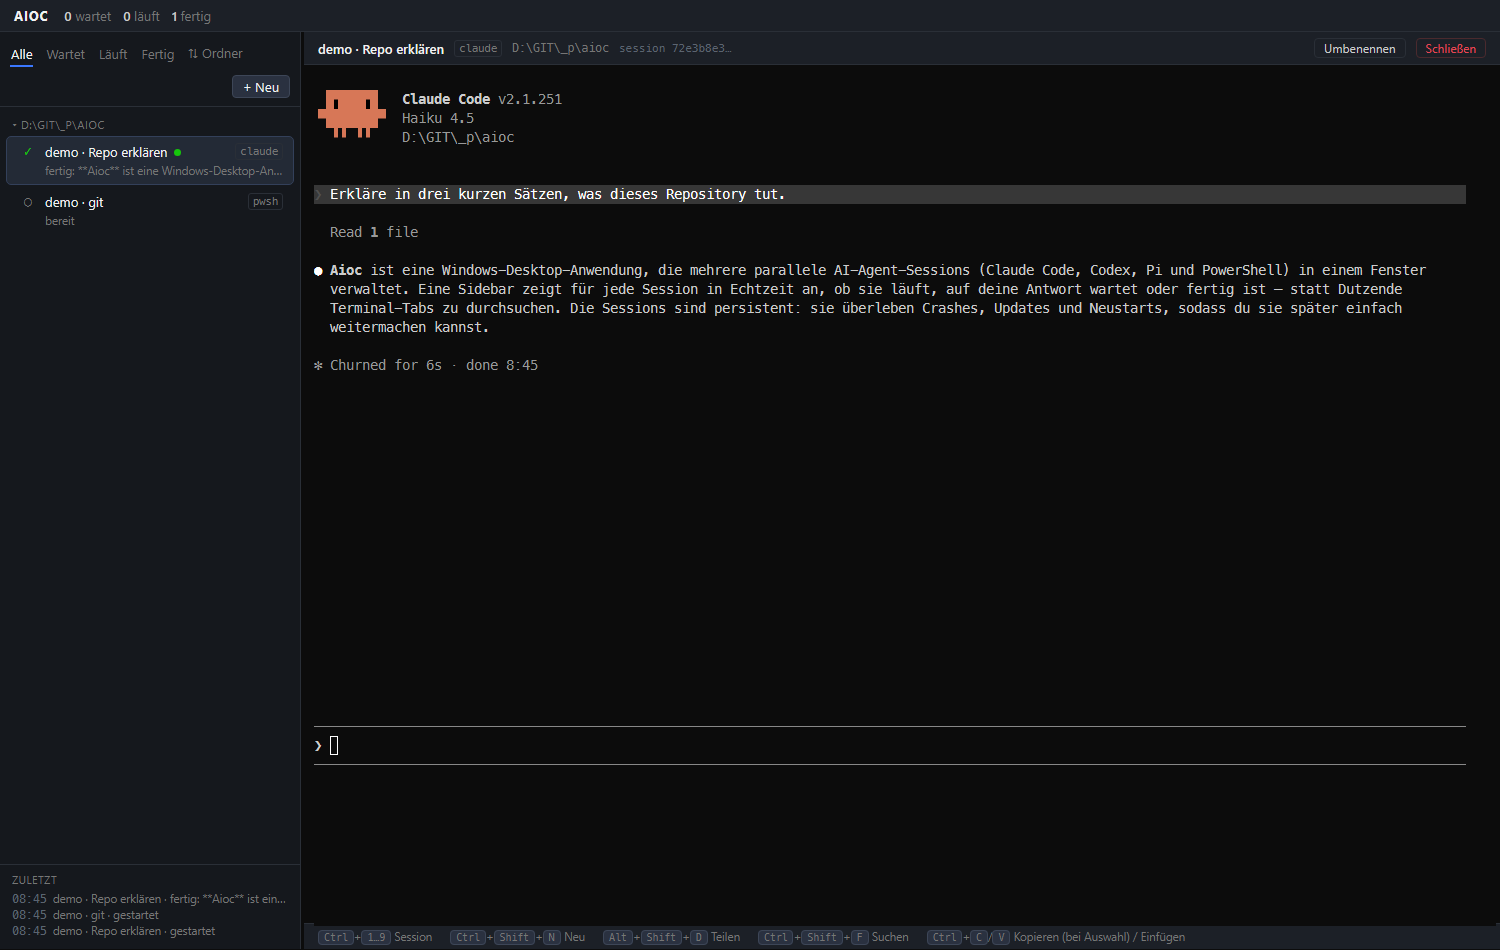
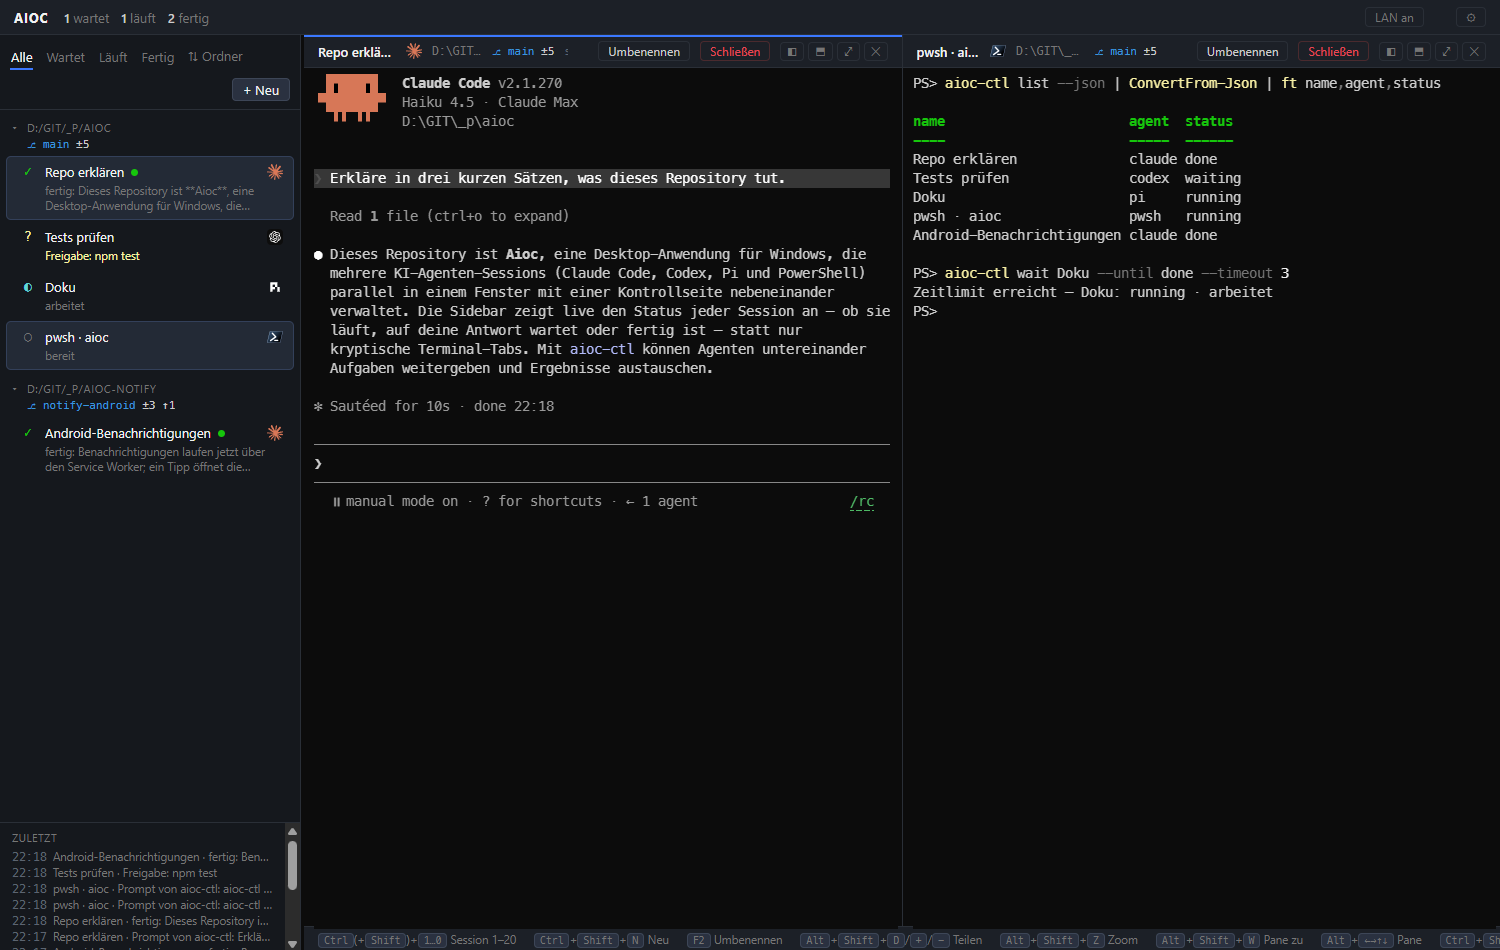
Doku auf den aktuellen Stand: Agenten-Anleitung fuer aioc-ctl, README, Screenshot
AIOC-CTL.md neben der README erklaert Agenten, wie sie andere Sessions lesen,
anschreiben und auf sie warten: Befehle, Statuswerte, Warte-Logik, Muster und
Fallstricke (Git-Bash-Slashes, Quoting, eigenes Tool-Zeitlimit, pwsh/Pi ohne
--answer). aioc-ctl --help nennt den Pfad.

README: Sortierung nach Typ und Drag-Reihenfolge in der Uebersicht, Handy mit
Tailscale-Zertifikat, vollstaendige Zustandsdateien, ui/agents/ im Aufbau. Chrome
auf Android zeigt noch keine Benachrichtigungen - steht jetzt so drin.

QR-Dialog und LAN-Tooltips unterscheiden vertrauenswuerdiges und selbst erzeugtes
Zertifikat. Neuer Screenshot mit Gruppen, Branch-Stand, Symbolen und zwei Panes.

diff --git a/ui/app.js b/ui/app.js
@@ -622,7 +622,9 @@
         const copy = document.createElement('button');
         copy.className = 'btn';
         copy.textContent = 'Link kopieren';
-        copy.title = 'Verbindungslink (mit Token und Zertifikats-Fingerprint) in die Zwischenablage';
+        copy.title = lan.trusted
+          ? 'Verbindungslink (mit Token) in die Zwischenablage'
+          : 'Verbindungslink (mit Token und Zertifikats-Fingerprint) in die Zwischenablage';
         copy.addEventListener('click', () => {
           navigator.clipboard?.writeText(link).then(() => { copy.textContent = 'Kopiert ✓'; setTimeout(() => (copy.textContent = 'Link kopieren'), 1500); }).catch(() => {});
         });
@@ -635,7 +637,13 @@
         qr.addEventListener('click', () => {
           const p = $('lanqr');
           p.hidden = !p.hidden;
-          if (!p.hidden) { $('lanqrimg').innerHTML = lan.qr; $('lanqrlink').textContent = link; $('settings').hidden = true; }
+          if (!p.hidden) {
+            // Vertrauenswuerdiges Zertifikat (z. B. Tailscale): kein WLAN-Zwang, keine Zertifikatswarnung
+            $('lanqrhint').textContent = lan.trusted
+              ? `QR-Code scannen – das Gerät muss ${lan.host} erreichen (bei Tailscale: im selben Tailnet). Dann „App installieren" bzw. „Zum Home-Bildschirm". Der Link enthält das Token, also privat halten.`
+              : 'Gleiches WLAN, QR-Code scannen, Zertifikat einmal bestätigen, dann „Zum Home-Bildschirm" – der Link enthält Token und Zertifikats-Fingerprint, also privat halten.';
+            $('lanqrimg').innerHTML = lan.qr; $('lanqrlink').textContent = link; $('settings').hidden = true;
+          }
         });
         el.appendChild(qr);
       }
@@ -648,7 +656,7 @@
       const on = document.createElement('button');
       on.className = 'btn dim';
       on.textContent = 'LAN an';
-      on.title = 'Zugriff aus dem Netzwerk per HTTPS/WSS freigeben (Token + Zertifikats-Fingerprint im Link)';
+      on.title = 'Zugriff aus dem Netzwerk per HTTPS/WSS freigeben – der Verbindungslink enthält das Token';
       on.addEventListener('click', () => send({ t: 'lan', enabled: true }));
       el.appendChild(on);
     }

diff --git a/cli/aioc-ctl.js b/cli/aioc-ctl.js
@@ -26,7 +26,8 @@ const HELP = `aioc-ctl – Aioc-Sessions lesen, anschreiben und auf sie warten
   <session>  ID, Name, eindeutiger Teil des Namens oder "self" (die eigene Aioc-Session)
   --json     Ausgabe als JSON
   Status:    starting running waiting done idle exited
-  Exit-Code: 0 ok · 1 Fehler · 2 falscher Aufruf · 124 Zeitlimit beim Warten erreicht`;
+  Exit-Code: 0 ok · 1 Fehler · 2 falscher Aufruf · 124 Zeitlimit beim Warten erreicht
+  Anleitung: ${path.join(__dirname, '..', 'AIOC-CTL.md')} (für Agenten: Muster, Warten, Fallstricke)`;
 
 const VALUE_FLAGS = new Set(['--lines', '--timeout', '--until']);
 const BOOL_FLAGS = new Set(['--all', '--answer', '--json', '--no-enter', '--wait', '--help', '-h']);

diff --git a/ui/index.html b/ui/index.html
@@ -21,7 +21,7 @@
 </div>
 <div class="popover qr" id="lanqr" hidden>
   <div class="h">Mit dem Handy verbinden</div>
-  <p class="hint">Gleiches WLAN, QR-Code scannen, Zertifikat einmal bestätigen, dann „Zum Home-Bildschirm" – der Link enthält Token und Zertifikats-Fingerprint, also privat halten.</p>
+  <p class="hint" id="lanqrhint"></p>
   <div id="lanqrimg"></div>
   <code id="lanqrlink"></code>
 </div>

diff --git a/README.md b/README.md
@@ -19,8 +19,8 @@ The status is **not guessed from screen output**. Each agent reports it through 
 - **Exact status sources.** Claude Code hooks (via `--settings`), Codex hooks (via `-c`), a tiny Pi extension (via `-e`), the terminal title as a second, independent source, and an activity heuristic for plain shells. All of it is passed on the command line of the individual session.
 - **Daemon and window are separate.** A small background service owns the sessions. Closing the window — or crashing it, or updating Aioc — never kills an agent. Reopen the window and everything is still there, scrollback included.
 - **Survives reboots.** Session list and scrollback are persisted continuously. After a restart every session comes back as *"before restart"* with its full terminal content; one click resumes the agent's own conversation (`claude --resume`, `codex resume`, `pi --session`) using the IDs Aioc learned from the hooks. Only a turn that was mid-flight at shutdown is lost.
-- **Built for many sessions.** Split panes freely — right, down, as deep as you like, drag the dividers, zoom one pane to the full area. Plus folder groups you can collapse, sort by folder or by status, a resizable sidebar, remembered window position, and Windows-Terminal-style keys.
-- **The UI is a web app.** The daemon serves it; Electron is just the shell around it. Switch on **LAN** and the same UI runs on a laptop, a tablet (as a PWA) or a second PC — over HTTPS/WSS with a pinned certificate (see [Use it from another machine](#use-it-from-another-machine-lan)).
+- **Built for many sessions.** Split panes freely — right, down, as deep as you like, drag the dividers, zoom one pane to the full area. Plus folder groups you can collapse, sorting by folder, status or agent type, drag-and-drop ordering, a resizable sidebar, remembered window position, and Windows-Terminal-style keys.
+- **The UI is a web app.** The daemon serves it; Electron is just the shell around it. Switch on **LAN** and the same UI runs on a laptop, a tablet (as a PWA) or a second PC — over HTTPS/WSS, with a pinned self-signed certificate or a trusted one from Tailscale (see [Use it from another machine](#use-it-from-another-machine-lan)).
 - **Every pane has its own header.** In split view each terminal carries name, agent, folder, branch, session ID and its own actions. Agents show up as small icons (Claude, OpenAI for Codex, Pi, PowerShell) — in the list right-aligned, with the name as tooltip.
 - **Branch at a glance.** Folder headings and pane headers show the git branch and the working tree, e.g. `⎇ main ±3 ↑1` (changes · ahead · behind). Read-only, and always with `--no-optional-locks`, so Aioc never takes the index lock away from an agent that is committing.
 - **Names stay in sync, both ways.** Rename a session inside Claude Code or Codex with `/rename` and Aioc picks it up; rename it in Aioc with F2 and Aioc sets it in the agent. Without a name of your own, Aioc follows Claude's own session title too (see [Session names](#session-names)).
@@ -83,7 +83,7 @@ Browser instead of Electron: open `http://127.0.0.1:43117/?token=<token>` — th
 - Drag the divider to resize the sidebar; double-click resets it. The same works for the dividers between panes — double-click puts them back to half and half.
 - Each pane header carries its own buttons: **◧** split right, **⬒** split down, **⤢** zoom, **✕** close the pane.
 - Double-click a session name (in the sidebar or in the header) to rename it.
-- **Notifications.** When a session starts waiting for you or finishes, Aioc shows a notification — but only when the window is in the background or that session is not open in a pane, so it never fires for what you are already looking at. Clicking it brings the window forward and loads that session into the focused pane. Switch it off per device under ⚙. In the local window this is a Windows toast (listed as *Aioc* under *Settings → Notifications*); remote windows use the browser's own notifications and ask for permission once.
+- **Notifications.** When a session starts waiting for you or finishes, Aioc shows a notification — but only when the window is in the background or that session is not open in a pane, so it never fires for what you are already looking at. Clicking it brings the window forward and loads that session into the focused pane. Switch it off per device under ⚙. In the local window this is a Windows toast (listed as *Aioc* under *Settings → Notifications*); remote windows in a desktop browser use the browser's own notifications and ask for permission once. Chrome on Android shows none yet: it accepts notifications only from a service worker, not from the page itself.
 - **Start menu and taskbar.** On start the local window creates (and keeps up to date) a start menu shortcut *Aioc* carrying Aioc's app ID and icon. Windows takes the taskbar button, its icon and the name in the notification settings from that shortcut — without it every Electron window would be lumped under Electron's atom. It also makes Aioc startable from Windows search.
 - **⚙ Background image and per-device settings:** pick an image (stored by the daemon, so remote windows show it too), and set opacity and terminal font size for *this* device — like `backgroundImage` in Windows Terminal.
 - **Close** ends the process (asks first). **Remove** deletes an exited session and its scrollback from the list.
@@ -125,6 +125,8 @@ Titles that are not names stay out: `Claude Code`, Codex' bare folder title, the
 
 Sessions can be driven from the command line — by your own scripts, and by the agents themselves. `bin\` is prepended to the `PATH` of Aioc sessions only, so inside any Aioc session `aioc-ctl` is simply there; nothing is installed globally and no agent configuration is touched.
 
+The agents get a guide of their own: [AIOC-CTL.md](AIOC-CTL.md) explains the commands, how waiting works and the pitfalls (quoting, `self`, answering another session's dialog). `aioc-ctl --help` prints its path, so an agent inside Aioc finds it without being told.
+
 ```powershell
 aioc-ctl list                                   # all sessions with status, folder and branch
 aioc-ctl read <session> [--lines N|--all]       # terminal content as plain text
@@ -156,7 +158,7 @@ The window is only a client, so it can run somewhere else — a laptop, a tablet
 2. Allow the port in Windows Firewall once (as administrator): `netsh advfirewall firewall add rule name="Aioc LAN" dir=in action=allow protocol=TCP localport=43443`
 3. Click **Link kopieren**. The link carries the access token and the certificate fingerprint, e.g. `https://192.168.1.10:43443/?token=…#fp=…` (no `&` or `%`, so it survives an unquoted command line).
 4. On the other device:
-   - **Phone / tablet:** click **QR fürs Handy**, scan the code (same Wi-Fi), accept the self-signed certificate once, and use *Add to Home Screen* (works on iOS; Chrome on Android refuses to *install* an app over a self-signed certificate — see [A trusted certificate](#a-trusted-certificate-tailscale)) — Aioc ships a PWA manifest whose start URL carries the token, so the installed app opens straight into your sessions. On narrow screens Aioc shows the session list first; tapping a session opens its terminal full-screen, **‹ Liste** goes back.
+   - **Phone / tablet:** click **QR fürs Handy** and scan the code. With the generated certificate the phone has to be in the same Wi-Fi and you accept the certificate once; *Add to Home Screen* then works on iOS, but Chrome on Android refuses to *install* an app over a self-signed certificate. With a [trusted certificate](#a-trusted-certificate-tailscale) there is no warning, Chrome installs Aioc as an app, and a phone in your tailnet reaches it from anywhere. Aioc ships a PWA manifest whose start URL carries the token, so the installed app opens straight into your sessions. On narrow screens Aioc shows the session list first; tapping a session opens its terminal full-screen, **‹ Liste** goes back.
    - **Second PC with this repo:** `aioc-remote.cmd "<link>"` opens an Aioc window that pins the daemon's certificate to the fingerprint from the link — no certificate warning, and any other certificate is rejected.
 
 Pasting an image from a remote window works too: the image travels over the WebSocket to the daemon, is placed in the clipboard of the daemon machine and handed to the agent there — the same path a local `Ctrl+V` takes. **LAN aus** closes the listener and drops remote clients; local use continues untouched.
@@ -171,6 +173,8 @@ tailscale cert <machine>.<tailnet>.ts.net
 ```
 
 Aioc picks up any `<name>.crt` + `<name>.key` pair in that folder, runs the LAN listener with it and hands out `https://<name>:43443/?token=…` — no fingerprint, no pinning, and `aioc-remote.cmd` simply validates it the normal way. Such certificates last about 90 days; run `tailscale cert` again and switch LAN off and on.
+
+The phone then only needs Tailscale switched on: it reaches that link wherever it is online, not just in your Wi-Fi, and the QR dialog in Aioc says so instead of asking you to accept a certificate.
 
 Do **not** use `tailscale serve` for this: requests from the tailnet would then reach the daemon as `127.0.0.1`, which is exactly what the hook endpoint and the control API treat as *local and therefore allowed*.
 
@@ -196,10 +200,11 @@ daemon/        the service: PTYs (node-pty/ConPTY), scrollback (headless xterm),
 daemon/hooks/  agent-hook.js (Claude/Codex relay), aioc-pi-ext.ts (Pi extension)
 cli/ + bin/    aioc-ctl — bin/ is prepended to the PATH of Aioc sessions
 ui/            the web app the daemon serves (vanilla JS + xterm.js)
+ui/agents/     agent icons; embed.js embeds them into style.css
 shell/         the Electron shell (starts the daemon if needed, loads the UI)
 ```
 
-State lives in `%USERPROFILE%\.aioc\`: `sessions.json`, `scrollback\`, `daemon.json`, `window.json`, the generated `claude-settings.json`. Set `AIOC_HOME` (and `AIOC_DAEMON_PORT`) to run a second, fully isolated profile — handy for testing.
+State lives in `%USERPROFILE%\.aioc\`: `sessions.json`, `scrollback\` (per session a checkpoint `<id>.txt` plus a journal `<id>.log` that new output is appended to), `daemon.json`, `window.json`, `ui-state.json` (recent folders), the background image, `tls\` (certificates) and the generated `claude-settings.json`. Set `AIOC_HOME` (and `AIOC_DAEMON_PORT`) to run a second, fully isolated profile — handy for testing.
 
 ## License
 

diff --git a/AIOC-CTL.md b/AIOC-CTL.md
@@ -1,0 +1,129 @@
+# aioc-ctl — a guide for agents
+
+This file is written for AI agents (Claude Code, Codex, Pi) that run inside [Aioc](README.md) and want to work with the **other** sessions in the same window: read what they show, hand them a task, wait for the result, answer a question they ask.
+
+You are inside Aioc when the environment variable `AIOC_SESSION` is set (it holds your own session ID). Then `aioc-ctl` is on your `PATH`. Outside Aioc it works too, as long as the Aioc daemon runs on this machine: `node <aioc>/cli/aioc-ctl.js …`.
+
+## Ground rules
+
+- **Only touch sessions the user pointed you to.** Everything you send is visible to the user: the event feed shows `Prompt von <your session>: …` and `Tasten von <your session>: …`.
+- **Never answer another agent's permission prompt or question on your own authority.** Approving a dialog runs whatever that agent asked for. Read the dialog, tell the user what it asks, and send keys only once the user has said how to answer.
+- **Do not send prompts or keys to `self`.** Your own terminal is busy with your current turn. Use `self` only to read your own terminal (`aioc-ctl read self`).
+- **The token is full access to the machine.** The API answers on `127.0.0.1` only and needs the token from `daemon.json`. Never copy it into files, prompts or output.
+
+## Commands
+
+| Command | What it does |
+| --- | --- |
+| `aioc-ctl list [--json]` | All sessions: ID, status, agent, name, working folder with git state, detail. Your own session is marked `*`. |
+| `aioc-ctl read <s> [--lines N \| --all]` | Terminal content as plain text — last 60 lines by default, `--all` the whole scrollback (up to 8000 lines). |
+| `aioc-ctl read <s> --answer` | The agent's last final answer (Claude Code and Codex only). |
+| `aioc-ctl prompt <s> <text…> [--no-enter] [--wait [--timeout S]]` | Type the text and submit it; `-` as the only text reads it from stdin. |
+| `aioc-ctl key <s> <key…>` | Send keys, e.g. `down enter`, `esc`, `ctrl+c`. |
+| `aioc-ctl wait <s> [--until a,b] [--timeout S]` | Block until the session reaches one of the states. |
+
+`--json` works on every command and gives English field names; the plain output (table headings, status lines) is German.
+
+### Addressing a session
+
+`<s>` is matched in this order: exact ID, exact name (case-insensitive), start of an ID, part of a name. If a step matches more than one session, the command fails and lists the candidates. Names change — the user renames sessions, agents run `/rename` — so in anything longer than a one-off, take the ID from `aioc-ctl list` and use that.
+
+### Statuses
+
+| Status | Meaning |
+| --- | --- |
+| `starting` | Process launched, agent not ready yet. **Codex stays here until its first prompt** — you can prompt it anyway. |
+| `running` | Working on a turn. For PowerShell: output is flowing. |
+| `waiting` | Stopped with a question, permission prompt or approval overlay. Needs an answer. |
+| `done` | Turn finished. `detail` holds the first line of the answer. |
+| `idle` | Ready, nothing to do. For PowerShell: 3 seconds without output. |
+| `exited` | Process ended — also sessions listed as *vor Neustart* after a reboot. They cannot receive input; the user restores them in the window. |
+
+`list --json` adds: `running` (process alive), `unread`, `seq` (counts status changes), `agentSessionId`, `cwd` (start folder), `workCwd` and `workGit` (where the agent actually works now, reported by its hooks), `git` (state of the start folder: `branch`, `changed`, `untracked`, `conflicts`, `ahead`, `behind`, `root`).
+
+### `read`
+
+Plain text without colors; lines the terminal wrapped are joined again, trailing empty lines are dropped. In a full-screen TUI you get the visible screen. Exited sessions can be read too (from the saved scrollback).
+
+`--answer` returns the final message the agent reported in its `Stop` hook — complete, not cut to the terminal width. It exists for **Claude Code and Codex** only, and is cleared as soon as a new prompt is submitted. For Pi and PowerShell, read the terminal instead.
+
+### `prompt`
+
+The text is sent as a bracketed paste and Enter follows separately, so a multi-line text stays **one** prompt. `--no-enter` only types it. A session that is not running fails with an error.
+
+With `--wait`, `prompt` blocks until the session stops working (`waiting`, `done`, `idle` or `exited`) and prints `<name>: <status> · <detail>`. If the status is `done` and the agent is Claude Code or Codex, the full answer follows after an empty line. `--json` returns the session fields plus `answer` and `timedOut`.
+
+`--wait` never picks up the *previous* turn's `done`: it only accepts a status change after the prompt, and only once the agent has actually started working. If nothing starts within 15 seconds (say the text landed in a shell that prints nothing), the next status change counts.
+
+### `key`
+
+Key names: `enter` `esc` `tab` `shift+tab` `space` `backspace` `delete` `up` `down` `left` `right` `home` `end` `pgup` `pgdn` `ctrl+<letter>`, or any single character. Keys go out one by one, 60 ms apart, so `esc` followed by another key is not read as Alt+key. Arrow keys follow the terminal's cursor mode automatically.
+
+### `wait`
+
+Default states: `waiting,done,idle,exited`. If the session is already in one of them, `wait` returns at once — so `aioc-ctl wait <s>` right after a plain `prompt` (without `--wait`) still waits for the new turn, because the prompt marks the session as busy until it starts working.
+
+There is no need to loop yourself: the CLI keeps asking the daemon in chunks of up to four minutes until the state is reached or `--timeout` runs out.
+
+### Exit codes
+
+`0` ok · `1` error (unknown or ambiguous session, session not running, daemon not reachable) · `2` wrong usage · `124` timeout — the output then starts with `Zeitlimit erreicht –` and shows the current status.
+
+## Patterns
+
+**Hand a task to another session and collect the answer** (PowerShell):
+
+```powershell
+@'
+Run the failing tests in tests/api and name the root cause in two sentences. Do not change any code.
+'@ | aioc-ctl prompt tests - --wait --timeout 540
+```
+
+Look at the first line: `…: done` → the answer follows. `…: waiting` → the agent asks something (next pattern). Exit code `124` → still working; call `aioc-ctl wait tests --timeout 540` again, then `aioc-ctl read tests --answer`.
+
+**The other session asks a question:**
+
+```powershell
+aioc-ctl read tests --lines 40      # show the dialog
+# tell the user what it asks and wait for their decision, then e.g.:
+aioc-ctl key tests down enter
+aioc-ctl wait tests --timeout 540
+aioc-ctl read tests --answer
+```
+
+**Several sessions in parallel** (bash):
+
+```bash
+aioc-ctl prompt frontend - < task-frontend.md
+aioc-ctl prompt backend  - < task-backend.md
+aioc-ctl wait frontend --timeout 540; aioc-ctl wait backend --timeout 540
+aioc-ctl read frontend --answer
+aioc-ctl read backend --answer
+```
+
+**Filter sessions** (PowerShell):
+
+```powershell
+aioc-ctl list --json | ConvertFrom-Json | Where-Object status -eq 'waiting' | Select-Object id, name, detail
+```
+
+## Pitfalls
+
+- **Your own tool timeout.** If your shell tool kills commands after a few minutes, keep `--timeout` below that limit and call `wait` again on exit code `124` — a killed `aioc-ctl` does not stop the other agent, but you lose the answer output.
+- **Git Bash rewrites leading slashes.** In Git Bash an argument starting with `/` — `/review`, `/rename Foo` — arrives as `C:/Program Files/Git/review`. Send slash commands through stdin (`echo '/review' | aioc-ctl prompt s -`) or prefix the call with `MSYS_NO_PATHCONV=1`.
+- **Quoting.** Text with quotes, `$`, backticks or line breaks belongs on stdin: a PowerShell here-string `@'…'@` or a bash heredoc `<<'EOF'`.
+- **Prompting a busy agent.** Aioc types immediately; the agent treats it like input typed during its turn (usually queued as the next message), and `--wait` may then return when the *current* turn ends. Unless you mean to interject, `aioc-ctl wait <s>` first.
+- **PowerShell sessions** have no hooks. `idle` only means three seconds without output, so a long, quiet command looks finished — check the output with `read --lines` and look for the prompt line. There is no `--answer`.
+- **Pi** has no `--answer` either; read the terminal.
+
+## The HTTP API underneath
+
+`aioc-ctl` is a thin client. The same calls work directly — loopback only, header `Authorization: Bearer <token>`, port and token from `%USERPROFILE%\.aioc\daemon.json` (or `AIOC_HOME`):
+
+| Call | Parameters |
+| --- | --- |
+| `GET /api/sessions` | — |
+| `GET /api/read` | `session`, `lines` (`0` = all, default 60) or `answer=1` |
+| `POST /api/prompt` | JSON `{ session, text, enter, from }` → session fields plus `seq` |
+| `POST /api/keys` | JSON `{ session, keys: [...], from }` → session fields plus `seq` |
+| `GET /api/wait` | `session`, `until` (comma-separated), `after` (the `seq` from prompt/keys), `timeout` in ms (at most 240000 per request) → session fields plus `timedOut` |
